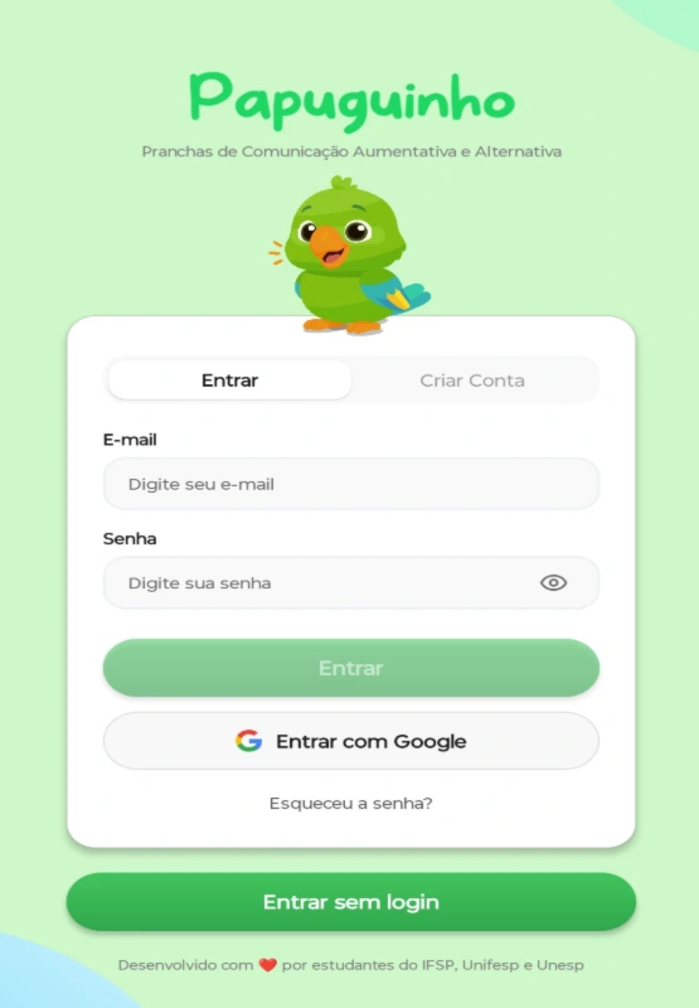
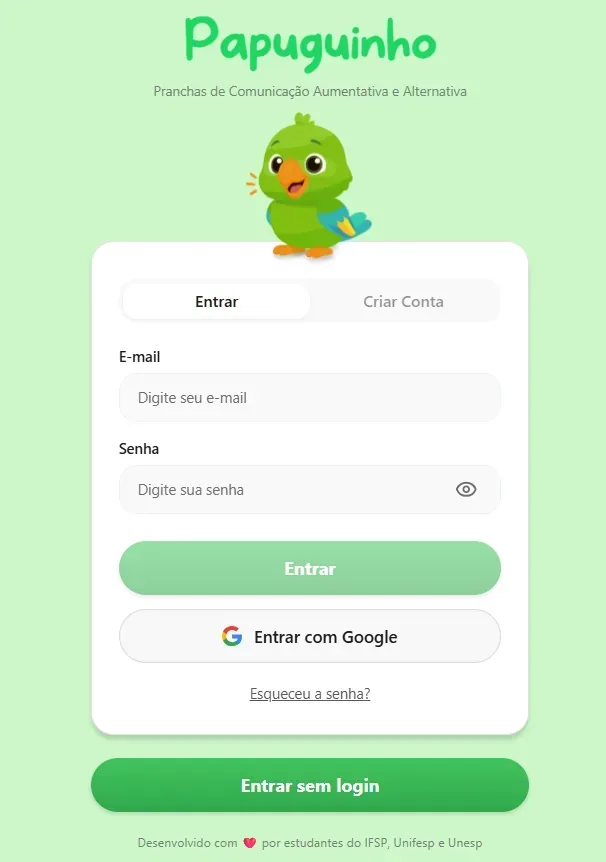
Fix(galeria): Altear as imagens das funcionalidades para telas com tema claro e cria script para a otimização das imagens webp

Changed region(s): [[0.0, 0.0, 0.9208, 1.0], [0.3267, 0.7239, 0.6832, 0.7541], [0.8911, 0.0, 1.0, 0.0603]]

diff --git a/src/components/Gallery.tsx b/src/components/Gallery.tsx
@@ -1,23 +1,11 @@
 import { Card } from "@/components/ui/card";
-import papuguinho01 from "@/assets/gallery/cadastro.webp";
-import papuguinho02 from "@/assets/gallery/historico.webp";
-import papuguinho03 from "@/assets/gallery/Prancha_geral.webp";
-import papuguinho04 from "@/assets/gallery/pranchas.webp";
-import papuguinho05 from "@/assets/gallery/modo_infantil.webp";
-import papuguinho06 from "@/assets/gallery/editar_pranchas.webp";
+import papuguinho01 from "@/assets/gallery/rotinas.webp";
+import papuguinho03 from "@/assets/gallery/pranchaPrincipal.webp";
+import papuguinho04 from "@/assets/gallery/pranchasTematicas.webp";
+
 
 const Gallery = () => {
   const screenshots = [
-    {
-      title: "Tela de Cadastro",
-      description: "Crie sua conta de forma rápida e fácil",
-      image: papuguinho01,
-    },
-    {
-      title: "Entrar no Histórico",
-      description: "Acesse o histórico com e-mail e senha",
-      image: papuguinho02,
-    },
     {
       title: "Prancha Geral",
       description: "Comunicação visual com ícones intuitivos",
@@ -25,18 +13,13 @@ const Gallery = () => {
     },
     {
       title: "Pranchas Temáticas",
-      description: "Categorias organizadas por temas",
+      description: "Categorias organizadas por temas personalizáveis",
       image: papuguinho04,
     },
     {
-      title: "Modo Infantil",
-      description: "Fixe a tela para uso seguro por crianças",
-      image: papuguinho05,
-    },
-    {
-      title: "Personalize seu App",
-      description: "Crie pictogramas e edite à sua maneira",
-      image: papuguinho06,
+      title: "Rotinas",
+      description: "Rotinas personálizaveis",
+      image: papuguinho01,
     },
   ];
 
